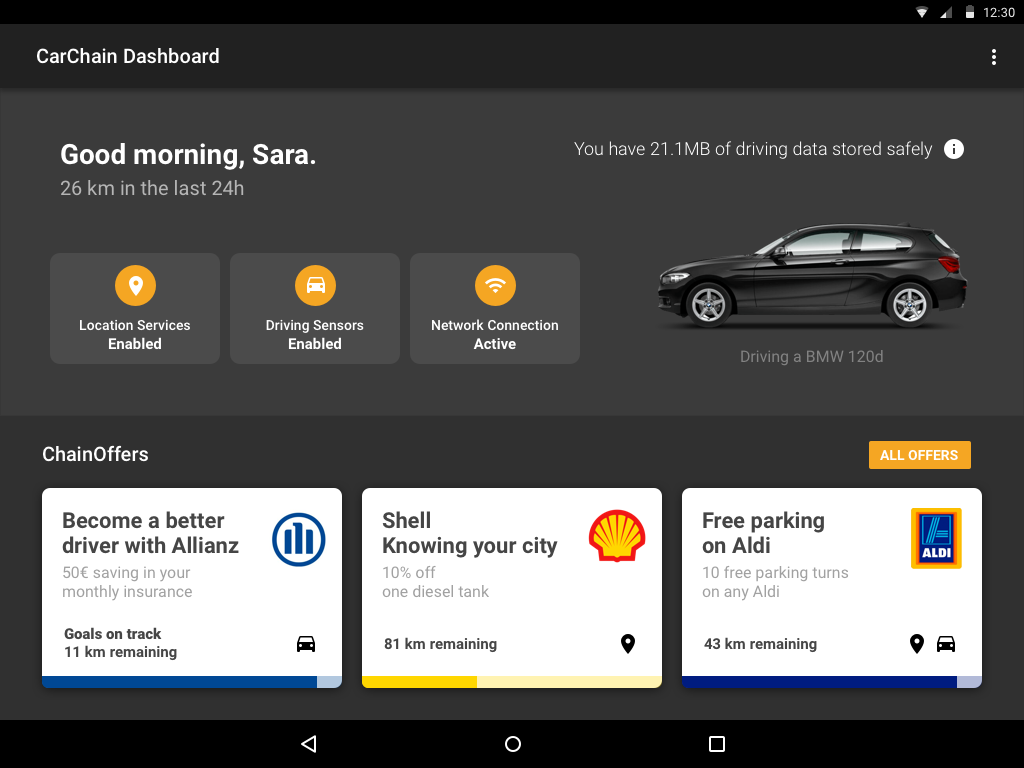
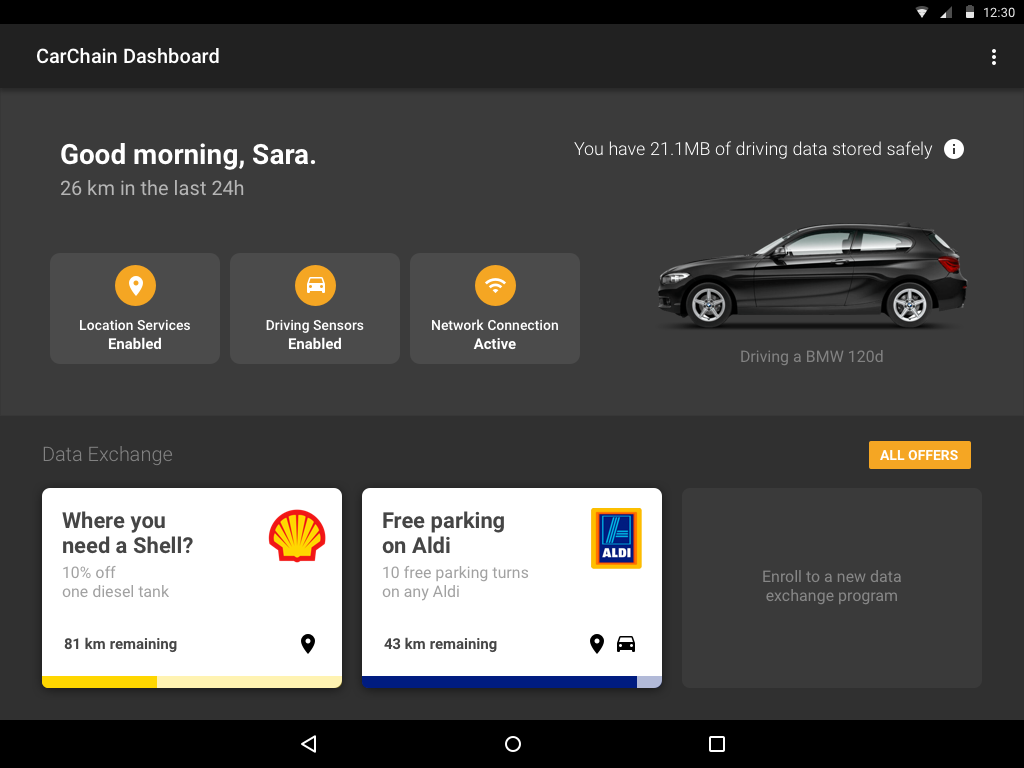
.

diff --git a/src/app/dashboard/dashboard.component.ts b/src/app/dashboard/dashboard.component.ts
@@ -8,9 +8,12 @@ import { Component, OnInit } from '@angular/core';
 export class DashboardComponent implements OnInit {
 
   public show: number;
+  public allianz: number;
+  public aldi: number;
+  public shell: number;
 
   constructor() {
- 
+    this.allianz = parseInt(sessionStorage.getItem('allianz')); 
   }
     
   ngOnInit() {
@@ -20,9 +23,14 @@ export class DashboardComponent implements OnInit {
       console.log('switch');
 
       if(this.show) {
-        this.show = 0
+        this.show = 0;
+        this.aldi = 0;
+        this.shell = 0;
+
       } else {
-        this.show = 1
+        this.show = 1;
+        this.aldi = 1;
+        this.shell = 1;
       }
   }
 }

diff --git a/src/app/dashboard/dashboard.component.css b/src/app/dashboard/dashboard.component.css
@@ -17,3 +17,38 @@
     top:320px;
     left:865px;
 }
+
+.all-offers2 {
+    position:relative;
+    height:205px;
+    width: 305px;
+    top:329px;
+    left:680px;
+}
+
+
+.allianz {
+    background-image: url('/assets/allianz.png');
+}
+
+.shell {
+    position:relative;
+    height:202px;
+    width: 309px;
+    top:126px;
+    left:40px;
+    background-image: url('/assets/shell.png');
+}
+
+.aldi {
+    position:relative;
+    height:201px;
+    width: 312px;
+    left:353px;
+    top:-76px;
+
+    background-image: url('/assets/aldi.png');
+}
+
+
+

diff --git a/src/app/offer-detail/offer-detail.component.ts b/src/app/offer-detail/offer-detail.component.ts
@@ -1,4 +1,5 @@
 import { Component, OnInit } from '@angular/core';
+import {Router} from '@angular/router'
 
 @Component({
   selector: 'app-offer-detail',
@@ -7,9 +8,15 @@ import { Component, OnInit } from '@angular/core';
 })
 export class OfferDetailComponent implements OnInit {
 
-  constructor() { }
+  constructor(private router: Router) {
+      this.router = router;
+  }
 
   ngOnInit() {
   }
-
+  
+  enroll() {
+    this.router.navigate(['/dashboard']);
+    sessionStorage.setItem('allianz', '1');
+  }
 }

diff --git a/src/app/dashboard/dashboard.component.html b/src/app/dashboard/dashboard.component.html
@@ -1,4 +1,8 @@
 <div class="container page-dashboard">
     <div class="location-services" (click)="switchLoc()" [class.location-services-bg]="show"></div>
-    <div class="all-offers"></div>
+    <div class="all-offers" [routerLink]="['/offers']"></div>
+    <div class="all-offers2" [class.allianz]="allianz" [routerLink]="['/offers']"></div>
+
+    <div [class.shell]="shell"></div>
+    <div [class.aldi]="aldi"></div>
 </div>

diff --git a/src/app/offers/offers.component.css b/src/app/offers/offers.component.css
@@ -1,0 +1,8 @@
+.offers-click {
+    position: relative;
+    width: 320px;
+    height: 210px;
+    top: 190px;
+    left: 30px;
+    cursor: pointer;
+}

diff --git a/src/app/offers/offers.component.html b/src/app/offers/offers.component.html
@@ -1,3 +1,3 @@
 <div class="container page-offers">
-
+    <div class="offers-click" [routerLink]="['/offerdetail']"></div> 
 </div>

diff --git a/src/app/offer-detail/offer-detail.component.css b/src/app/offer-detail/offer-detail.component.css
@@ -1,0 +1,8 @@
+.enroll {
+    position: relative;
+    top: 298px;
+    left: 880px;
+
+    width: 100px;
+    height: 100px;
+}

diff --git a/src/app/offer-detail/offer-detail.component.html b/src/app/offer-detail/offer-detail.component.html
@@ -1,3 +1,3 @@
 <div class="container page-offer-detail">
-
+    <div class="enroll" (click)="enroll()"></div>
 </div>
